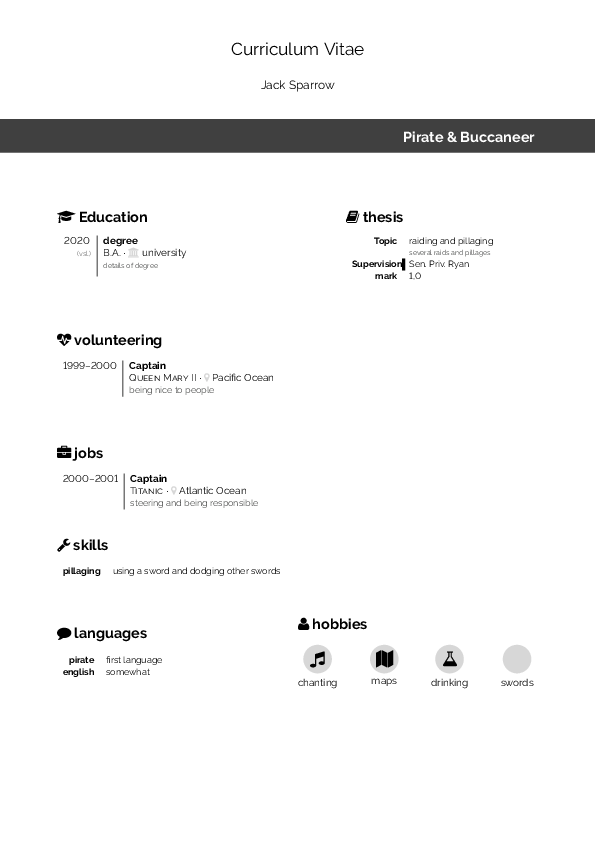
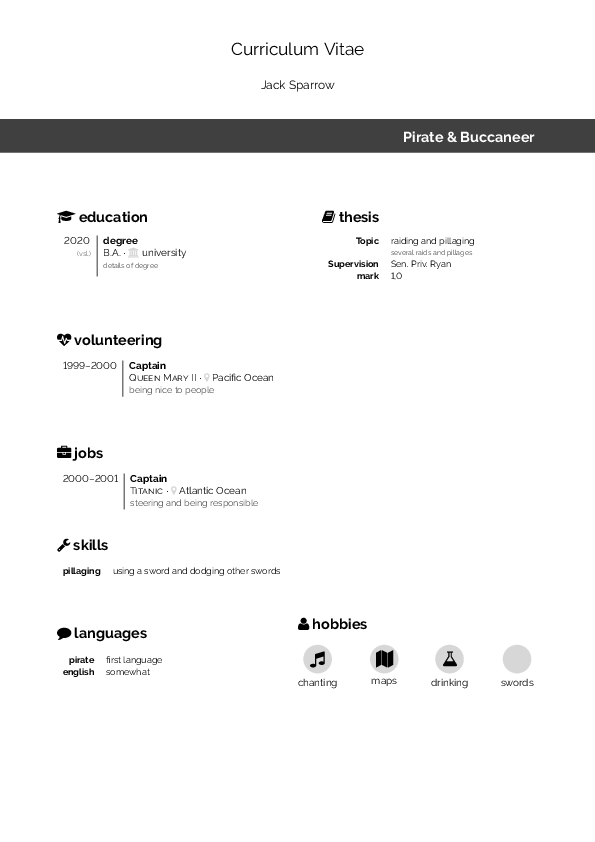
Change width of thesis box, remove language and update images

Changed region(s): [[0.5445, 0.247, 0.8168, 0.3397], [0.2118, 0.247, 0.242, 0.2779], [0.121, 0.247, 0.1513, 0.2779]]

diff --git a/main.tex b/main.tex
@@ -1,7 +1,6 @@
 \documentclass[]{article}
 \usepackage{ifdraft}
 \usepackage[utf8]{inputenc}
-\usepackage[ngerman]{babel}
 \usepackage[hmargin=2cm, vmargin=1.5cm, a4paper, nomarginpar, nohead]{geometry}
 
 \usepackage{microtype}
@@ -46,9 +45,9 @@
 %
 %\vspace{1em}
 \hfill
-\begin{minipage}[t]{.4\textwidth}
+\begin{minipage}[t]{.45\textwidth}
 	\section*{\textnormal{\faBook}\ thesis}
-	\begin{tabular}{>{\footnotesize\bfseries\raggedleft}p{1.6cm} >{\footnotesize\RaggedRight}p{\dimexpr\textwidth-2.5cm\relax}}
+	\begin{tabular}{>{\footnotesize\bfseries\raggedleft}p{1.8cm} >{\footnotesize\RaggedRight}p{3cm}}
 		Topic & raiding and pillaging\newline{\color{black!70}\scriptsize several raids and pillages}\\
 		Supervision & Sen. Priv. Ryan\\
 		mark & 1,0	
